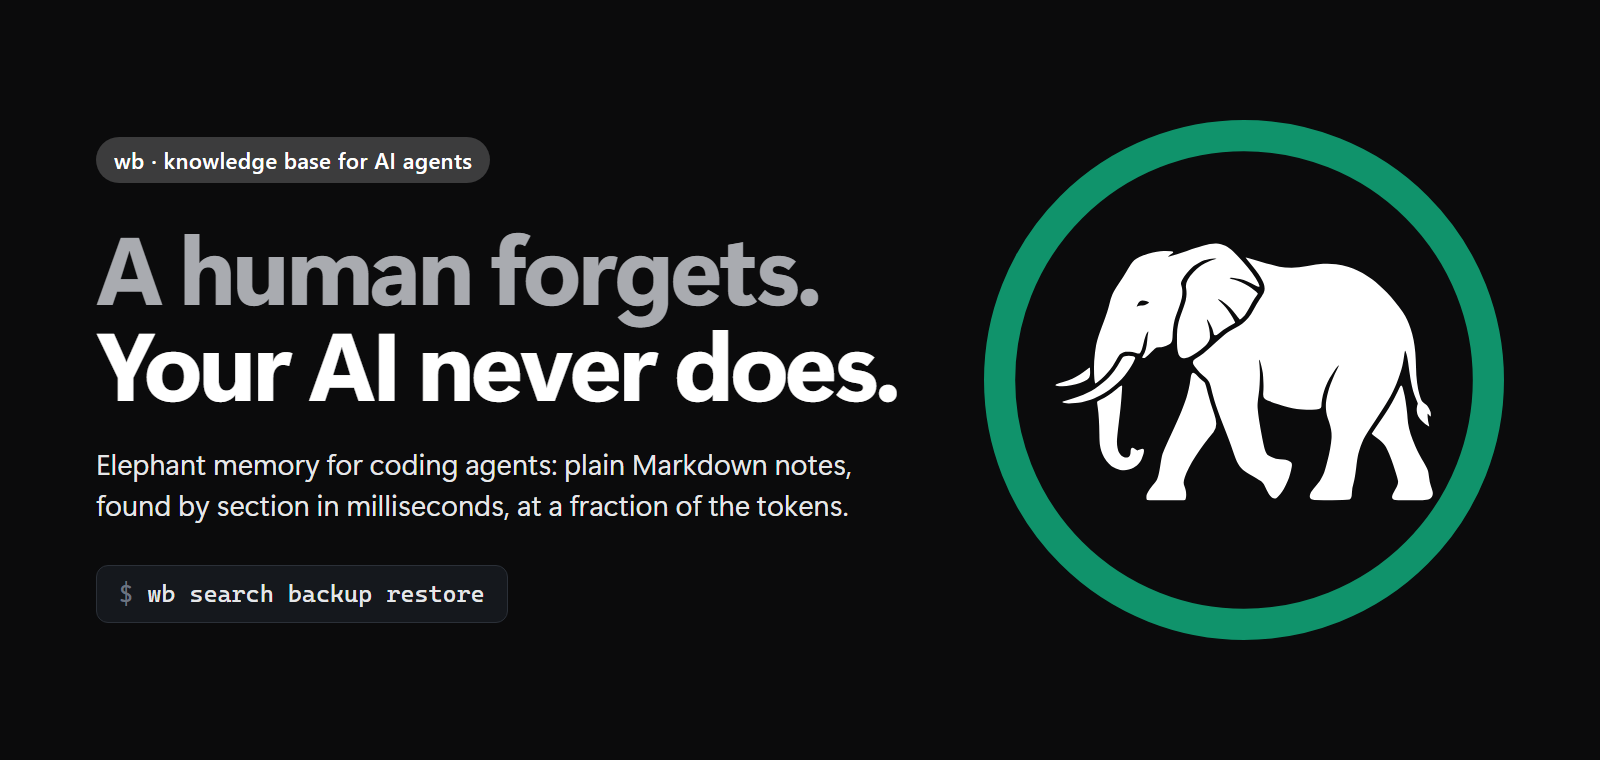
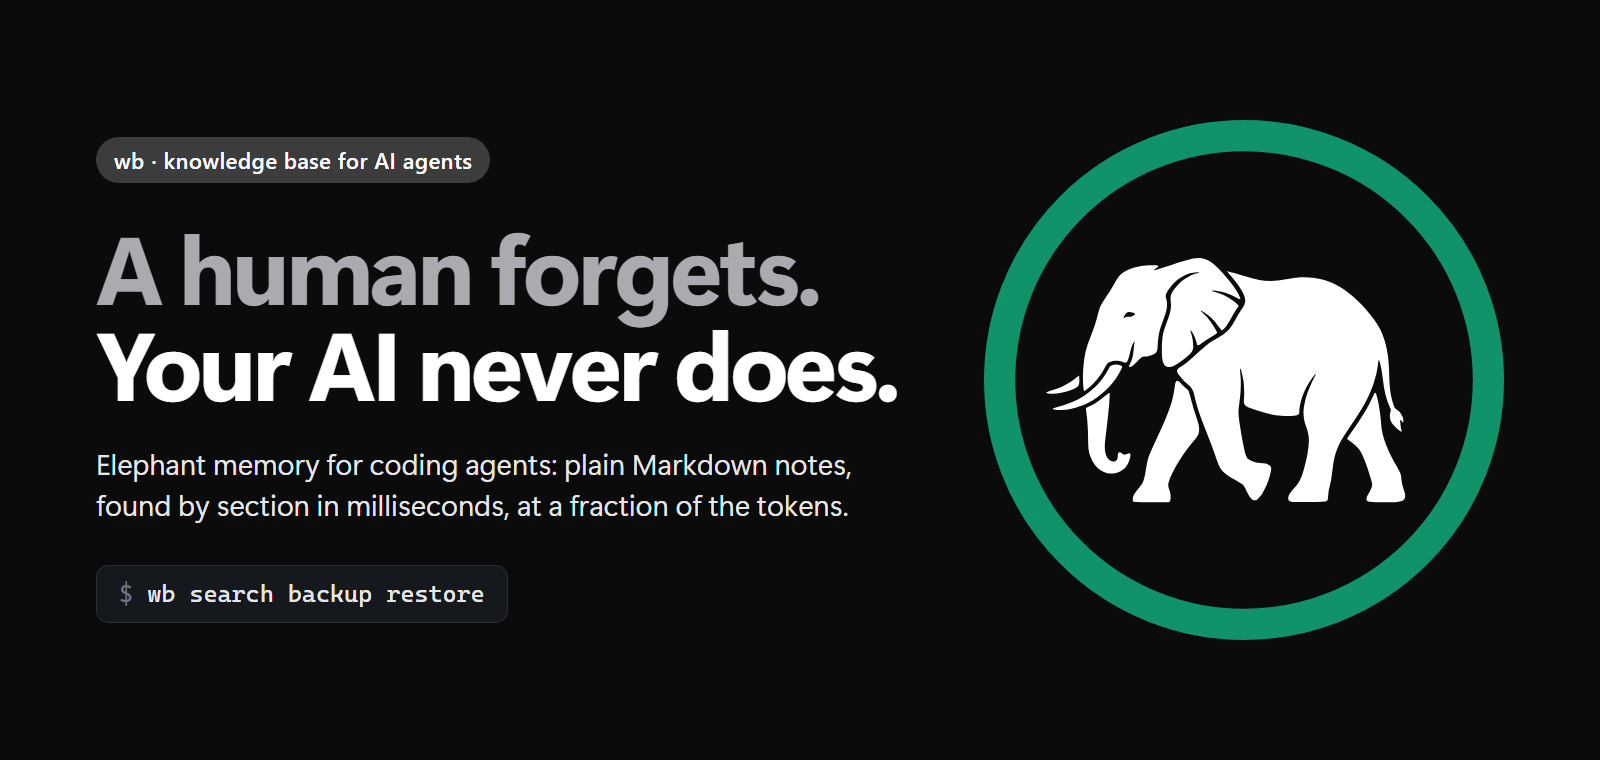
Mascot: centre the elephant optically
The thin tusks stretched the bounding box, so the body sat right of centre. vectorize.py
now centres the bounding box of the solid mass (tusks and tail opened away) and keeps the
tusk tips clear of the ring.

Changed region(s): [[0.6562, 0.3026, 0.9062, 0.6658]]

diff --git a/docs/brand/vectorize.py b/docs/brand/vectorize.py
@@ -21,7 +21,11 @@ def contours(path):
     cs, _ = cv2.findContours(mask, cv2.RETR_CCOMP, cv2.CHAIN_APPROX_NONE)
     cs = [c for c in cs if cv2.contourArea(c) > 40]  # drop specks
     pts = np.vstack(cs).reshape(-1, 2)
-    return cs, pts.min(axis=0), pts.max(axis=0)
+    # optical centre: the bounding box of the solid mass, without thin tusks and tail
+    solid = cv2.morphologyEx(mask, cv2.MORPH_OPEN, cv2.getStructuringElement(cv2.MORPH_ELLIPSE, (41, 41)))
+    sy, sx = np.nonzero(solid)
+    optical = np.array([(sx.min() + sx.max()) / 2, (sy.min() + sy.max()) / 2])
+    return cs, pts.min(axis=0), pts.max(axis=0), optical, pts
 
 
 def smooth_path(c, scale, off):
@@ -38,16 +42,23 @@ def smooth_path(c, scale, off):
 
 
 def build(src):
-    cs, lo, hi = contours(src)
+    return contours(src)
+
+
+def svg_badge(cs, lo, hi, optical, pts):
+    """Optical centring: thin tusks and tail stretch the bounding box and the heavy body pulls the
+    area centroid, both look off-centre. Horizontally the bounding box of the solid mass (tusks and
+    tail opened away) goes to the middle, vertically the full bounding box (back and feet are clean
+    edges). The silhouette shrinks until every point keeps clear of the ring."""
     w, h = hi - lo
-    return cs, lo, w, h
-
-
-def svg_badge(cs, lo, w, h):
-    # fit the silhouette into the inner disc (radius 225 of 256) with some air
-    target = 372.0
-    scale = target / max(w, h)
-    off = lo - np.array([(512 - w * scale) / 2 / scale, (512 - h * scale) / 2 / scale]) + np.array([0, 8 / scale])
+    centre = np.array([optical[0], (lo[1] + hi[1]) / 2])
+    scale = 372.0 / max(w, h)
+    while True:
+        off = centre - 256 / scale
+        r = np.hypot(*((pts - off) * scale - 256).T).max()
+        if r <= 198 or scale < 0.1:  # inner disc radius 225: the tusk tips keep ~27 px of air
+            break
+        scale *= 0.99
     d = "".join(smooth_path(c, scale, off) for c in cs)
     return f"""<svg xmlns="http://www.w3.org/2000/svg" viewBox="0 0 512 512" role="img" aria-labelledby="t">
   <title id="t">wb mascot: an elephant, because elephants never forget</title>
@@ -60,7 +71,8 @@ def svg_badge(cs, lo, w, h):
 """
 
 
-def svg_mark(cs, lo, w, h):
+def svg_mark(cs, lo, hi, optical, pts):
+    w, h = hi - lo
     pad = 16
     scale = 480.0 / max(w, h)
     vw, vh = w * scale + 2 * pad, h * scale + 2 * pad
